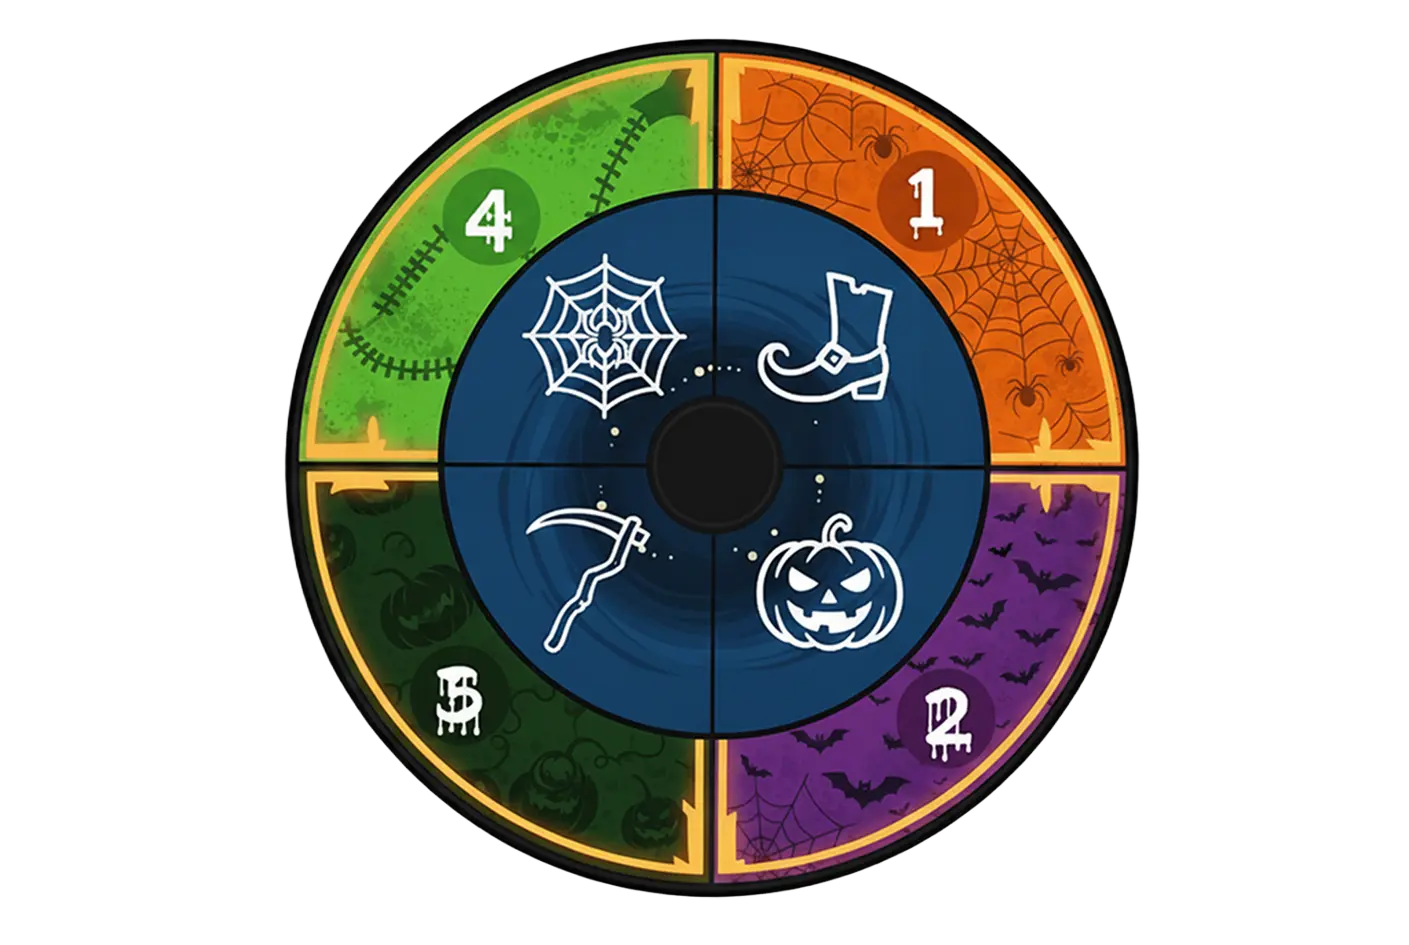
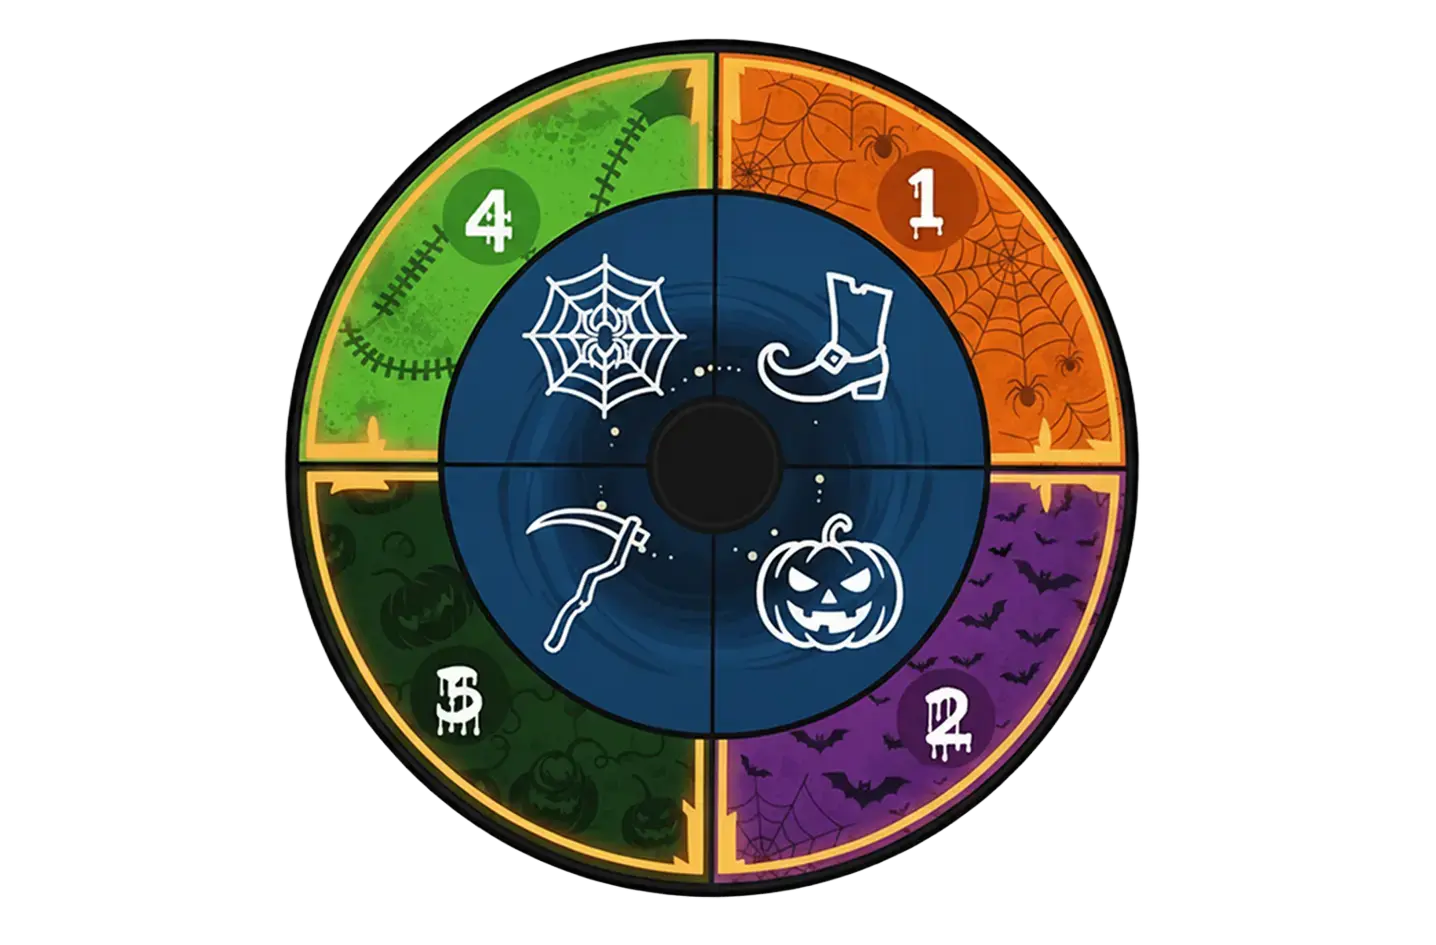
change spinwheel and add player action

Changed region(s): [[0.1874, 0.0307, 0.8119, 0.9513]]

diff --git a/packages/client/src/components/Pinwheel/Pinwheel.tsx b/packages/client/src/components/Pinwheel/Pinwheel.tsx
@@ -2,10 +2,12 @@ import { useEffect, useState } from 'react'
 import { motion, useAnimation } from 'motion/react'
 import styled from 'styled-components'
 import { useAppDispatch, useAppSelector } from '../../hooks/useApp'
-import { resolvePinwheel } from '../../slices/gameSlice'
+import { getCurrentPlayer, resolvePinwheel } from '../../slices/gameSlice'
 import { Box, Container, makeStyles } from '@material-ui/core'
 import spinwheel from '../../assets/spinwheel.webp'
+import spinwheelHalloween from '../../assets/halloween/spinwheel-halloween.webp'
 import spinArrow from '../../assets/spinner-arrow.webp'
+import { ThemeMode, useThemeSwitcher } from '../../theme/ThemeContext'
 
 const useStyles = makeStyles(theme => ({
   pinwheelWrapper: {
@@ -17,6 +19,12 @@ const useStyles = makeStyles(theme => ({
     flexDirection: 'column',
     alignItems: 'center',
     zIndex: 1000,
+  },
+  action: {
+    backgroundColor: theme.palette.background.default,
+    borderRadius: '8px',
+    padding: '16px 12px',
+    color: theme.palette.text.primary,
   },
   pinwheelContainer: {
     position: 'relative',
@@ -31,12 +39,17 @@ const useStyles = makeStyles(theme => ({
 }))
 
 export const Pinwheel = () => {
+  const { mode } = useThemeSwitcher()
   const classes = useStyles()
   const [isSpinning, setIsSpinning] = useState(false)
   const controls = useAnimation()
   const dispatch = useAppDispatch()
 
-  const { pinwheelResult, isPinwheelOpen } = useAppSelector(state => state.game)
+  const { pinwheelResult, isPinwheelOpen, stage } = useAppSelector(
+    state => state.game
+  )
+  const player = useAppSelector(state => getCurrentPlayer(state.game))
+  const name = player?.name ?? ''
 
   const handleAnimationComplete = () => {
     if (isSpinning) {
@@ -80,13 +93,19 @@ export const Pinwheel = () => {
       animate={{ opacity: isPinwheelOpen ? 1 : 0 }}
       transition={{ duration: 0.4 }}>
       <Container className={classes.pinwheelWrapper}>
+        <Box className={classes.action}>{`${name}: ${
+          stage === 'move' ? 'перемещение' : 'бой'
+        }`}</Box>
         <Box className={classes.pinwheelContainer}>
           <img
-            src={`${spinwheel}`}
+            src={
+              mode === 'halloween' ? `${spinwheelHalloween}` : `${spinwheel}`
+            }
             className={classes.pinwheelImg}
             alt="spinwheel"
           />
           <Arrow
+            $mode={mode}
             animate={controls}
             onAnimationComplete={handleAnimationComplete}>
             <img
@@ -112,11 +131,13 @@ const PinwheelOverlay = styled(motion.div)<{ $isOpen: boolean }>`
   display: ${({ $isOpen }) => ($isOpen ? 'block' : 'none')};
 `
 
-const Arrow = styled(motion.div)`
+const Arrow = styled(motion.div)<{ $mode: ThemeMode }>`
   position: absolute;
   width: 60px;
   height: 120px;
-  top: calc(50% - 120px);
-  left: calc(50% - 27px);
+  top: ${({ $mode }) =>
+    $mode === 'halloween' ? 'calc(50% - 125px)' : 'calc(50% - 115px)'};
+  left: ${({ $mode }) =>
+    $mode === 'halloween' ? 'calc(50% - 32px)' : 'calc(50% - 29px)'};
   transform-origin: bottom center;
 `

diff --git a/packages/client/src/slices/gameSlice.ts b/packages/client/src/slices/gameSlice.ts
@@ -44,6 +44,8 @@ const ZombieMap: Record<ZombieType, { count: number }> = {
   boss: { count: 1 },
 }
 
+type StageType = 'move' | 'fight'
+
 export type CanFightType =
   | 'coldWeapon'
   | 'gunWeapon'
@@ -78,6 +80,7 @@ export type GameState = {
   isPinwheelOpen: boolean
   statistics: GameStatistics
   type: GameType
+  stage: StageType
 }
 
 export type GameStatistics = {
@@ -115,9 +118,10 @@ const initialState: GameState = {
   isPinwheelOpen: false,
   statistics: initialStatisticsState,
   type: 'local',
+  stage: 'move',
 }
 
-const getCurrentPlayer = (game: GameState) =>
+export const getCurrentPlayer = (game: GameState) =>
   game.players[game.currentPlayerIndex]
 
 const getCellById = (game: GameState, id: number) =>
@@ -151,6 +155,7 @@ export const startGame = createAsyncThunk(
 export const moveStage = createAsyncThunk(
   'game/moveStage',
   async (_, { getState, dispatch }) => {
+    dispatch(gameSlice.actions.setStage('move'))
     await dispatch(spinPinwheel())
     const { game } = getState() as { game: GameState }
     const currentPlayer = getCurrentPlayer(game)
@@ -265,6 +270,7 @@ export const fightStage = createAsyncThunk(
   'game/fightStage',
   async (_, { getState, dispatch }) => {
     dispatch(gameSlice.actions.resetCanMoveCells())
+    dispatch(gameSlice.actions.setStage('fight'))
     await dispatch(spinPinwheel())
 
     const { game } = getState() as { game: GameState }
@@ -707,6 +713,7 @@ export const gameSlice = createSlice({
       state.pinwheelResult = null
       state.isPinwheelOpen = false
       state.statistics = initialStatisticsState
+      state.stage = 'move'
     },
 
     createCharacters(state) {
@@ -987,6 +994,10 @@ export const gameSlice = createSlice({
 
     setGameType(state, action: PayloadAction<GameType>) {
       state.type = action.payload
+    },
+
+    setStage(state, action: PayloadAction<'move' | 'fight'>) {
+      state.stage = action.payload
     },
   },
 })
